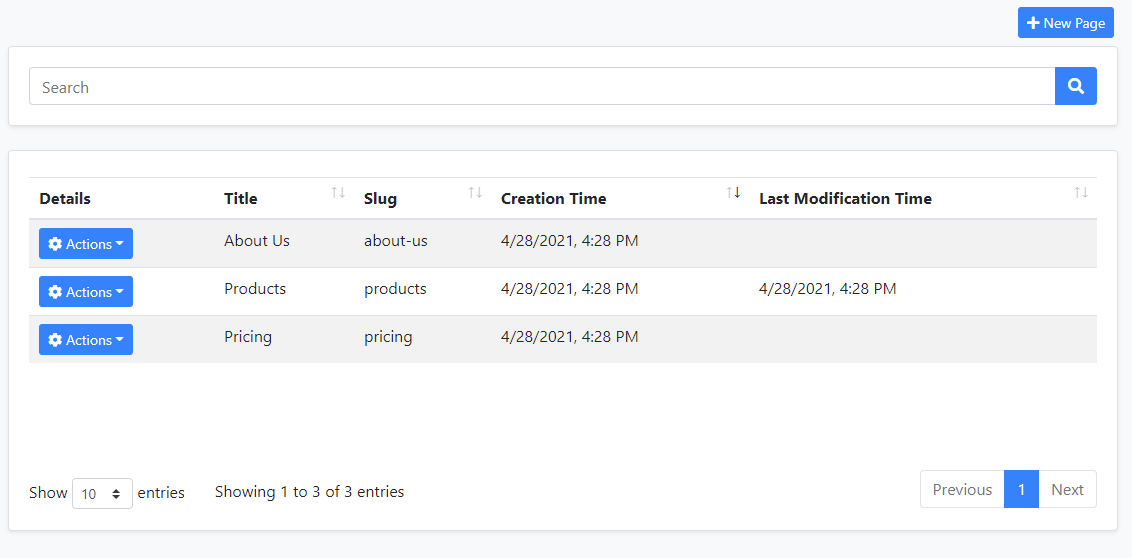
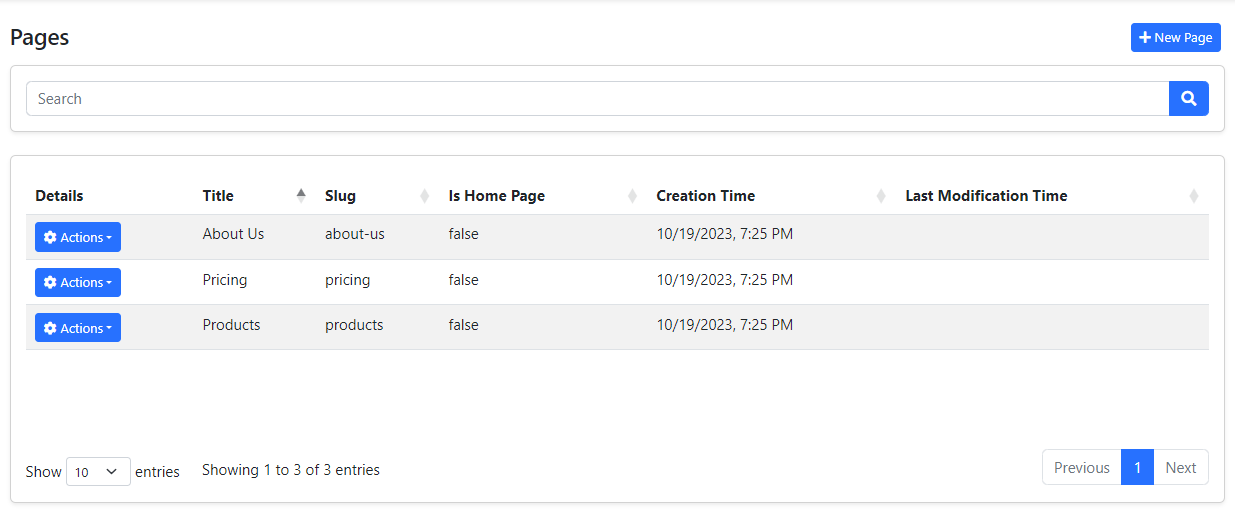
Update "CMS Kit: Pages" documentation

diff --git a/docs/en/Modules/Cms-Kit/Pages.md b/docs/en/Modules/Cms-Kit/Pages.md
@@ -22,13 +22,13 @@ CMS Kit module admin side adds the following items to the main menu, under the *
 
 #### Page Management
 
-Pages page is used to manage dynamic pages in the system.
-
-![pages-page](../../images/cmskit-module-pages-page.png)
-
-You can create or edit an existing page on this page.
+**Pages** page is used to manage dynamic pages in the system. You can create/edit pages with dynamic routes and contents on this page:
 
 ![pages-edit](../../images/cmskit-module-pages-edit.png)
 
-When you create a page, you can access the created page via `/{slug}` URL.
+After you have created pages, you can set one of them as a *home page*. Then, whenever anyone navigates to your application's homepage, they see the dynamic content of the page that you have defined on this page.
+
+![pages-page](../../images/cmskit-module-pages-page.png)
+
+Also when you create a page, you can access the created page via `/{slug}` URL.
 
